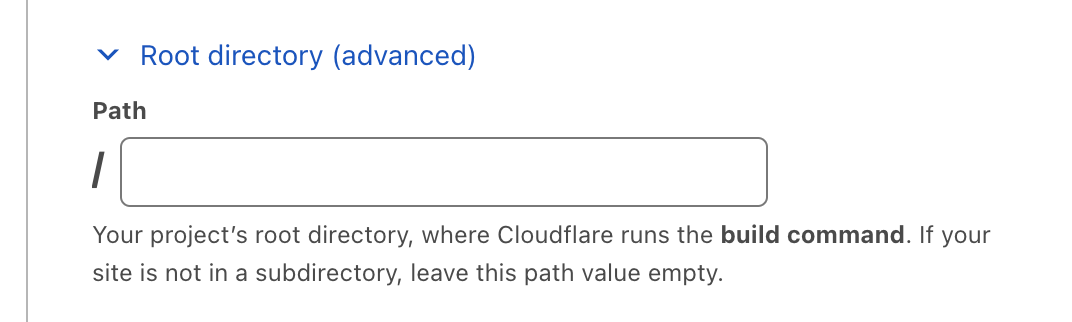
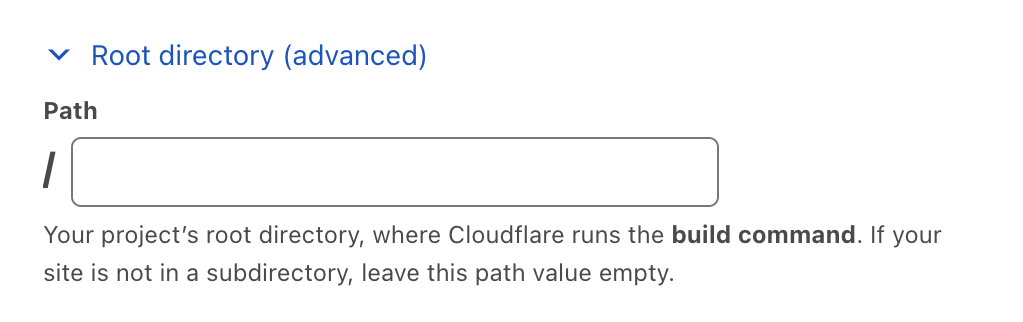
update 500

diff --git a/products/pages/src/content/getting-started/index.md b/products/pages/src/content/getting-started/index.md
@@ -55,7 +55,7 @@ Our deployment dashboard provides a number of presets, which are pre-filling val
 
 Cloudflare Pages begins by working from your repository's root directory. The entire build pipeline, including the installation steps, will begin from this location. If you would like to change this, specify a new root directory location through the **Root directory (advanced)** > **Path** field.
 
-![Root directory](root-directory.png)
+![Root directory](./images/root-directory.png)
 
 #### Environment variables
 
